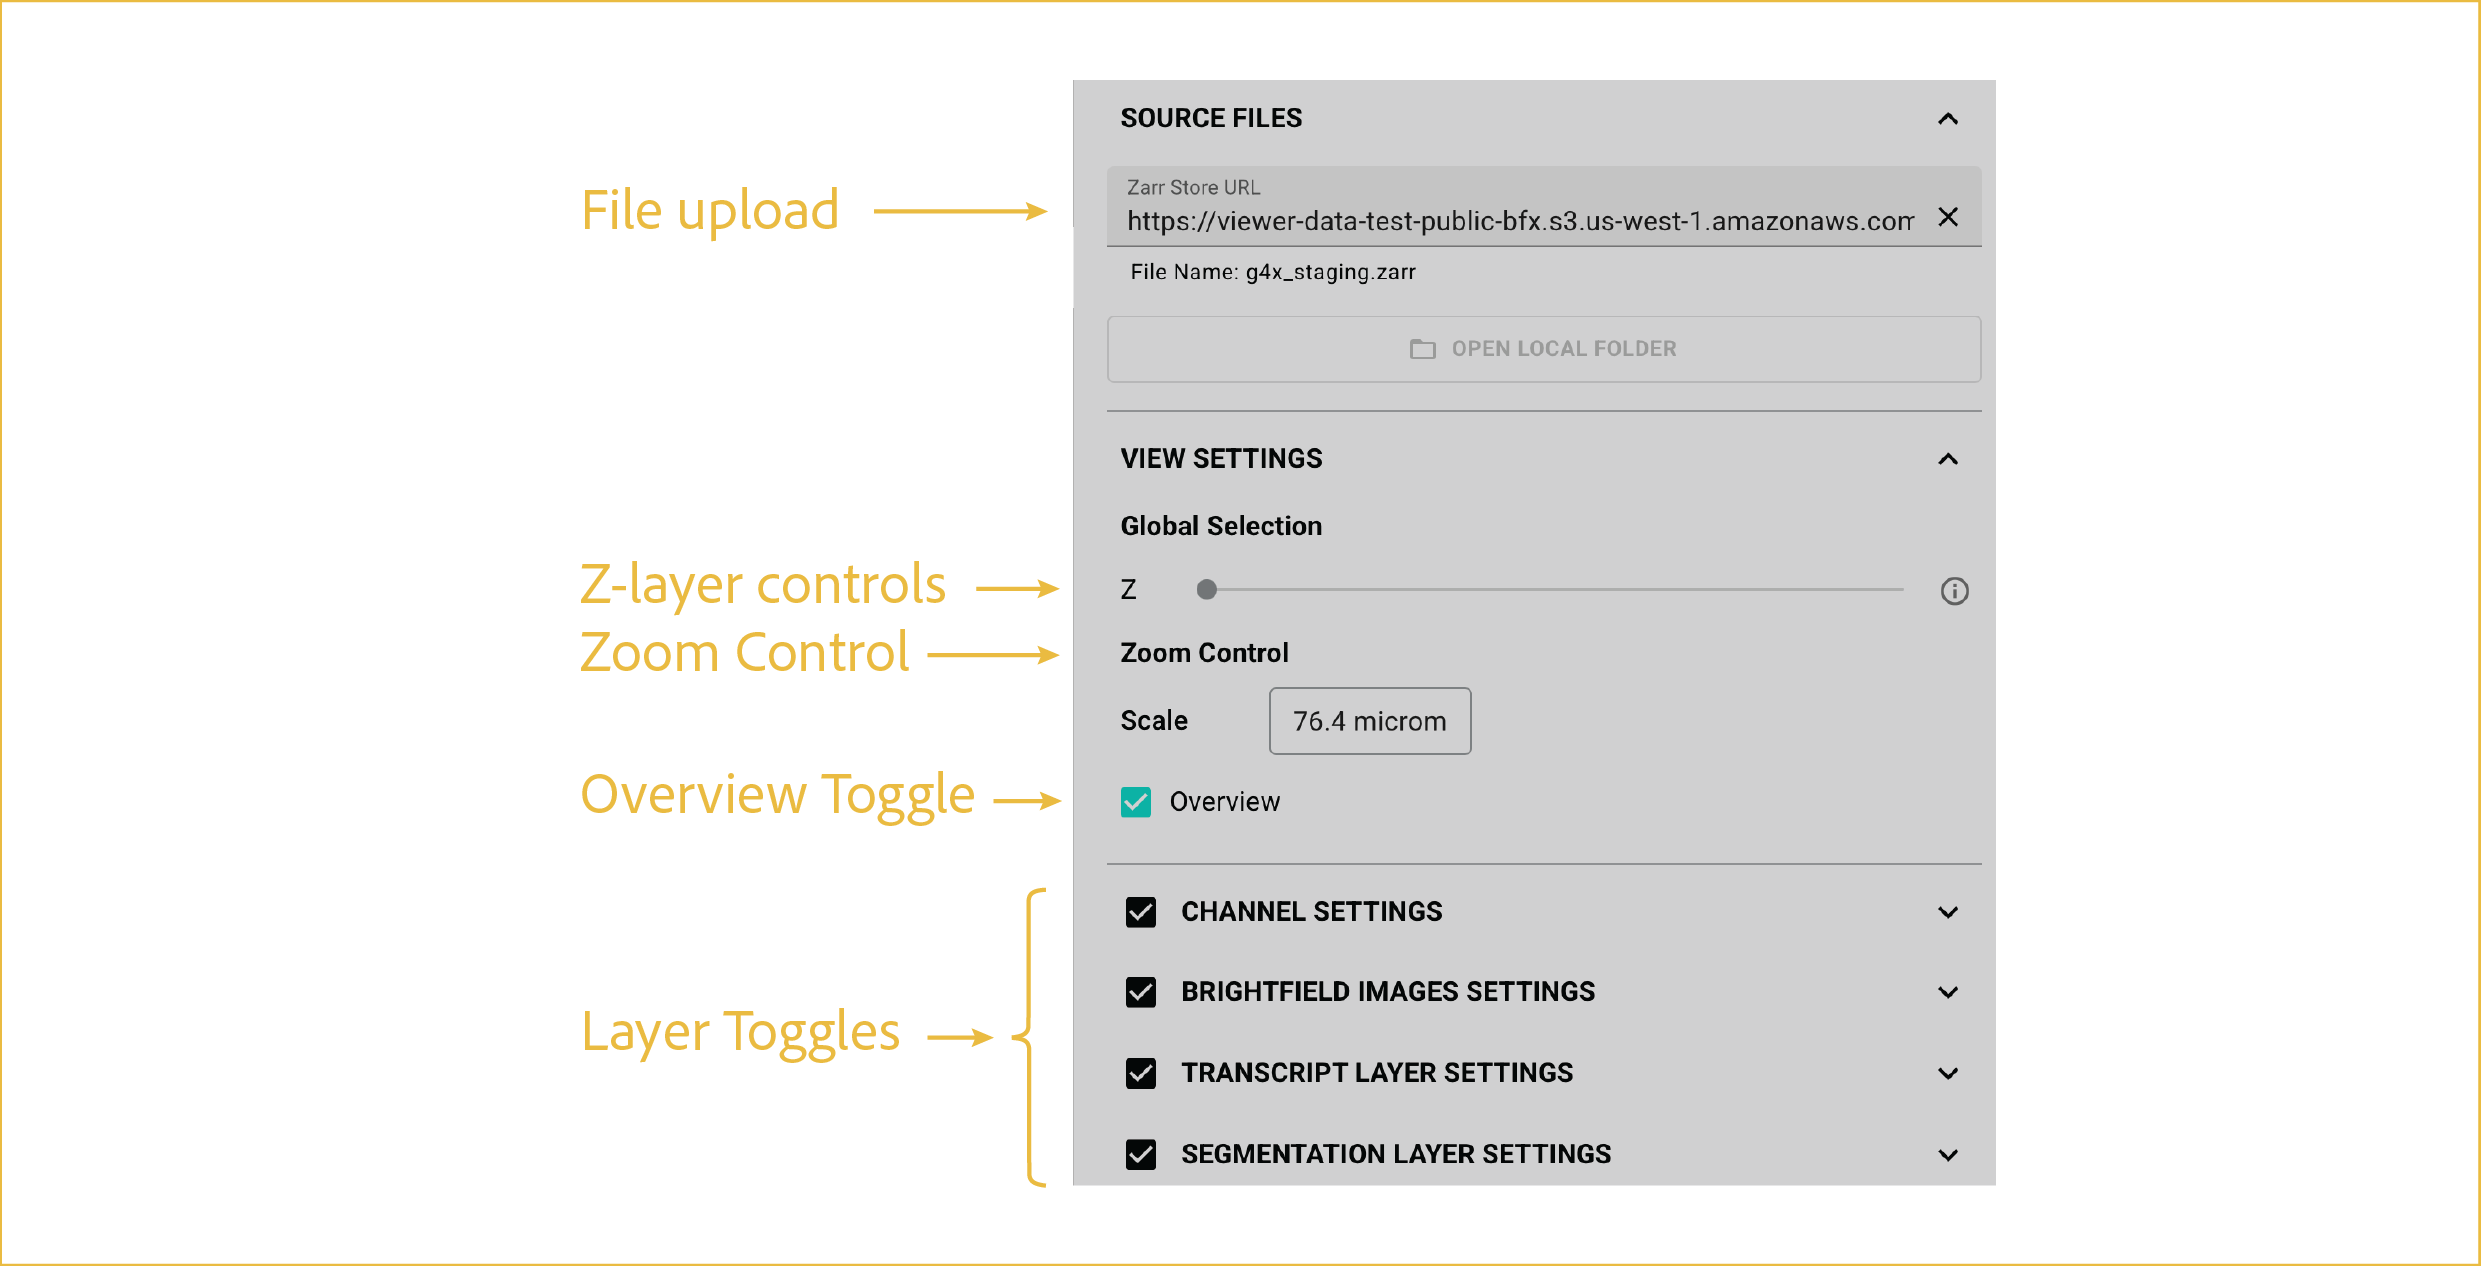
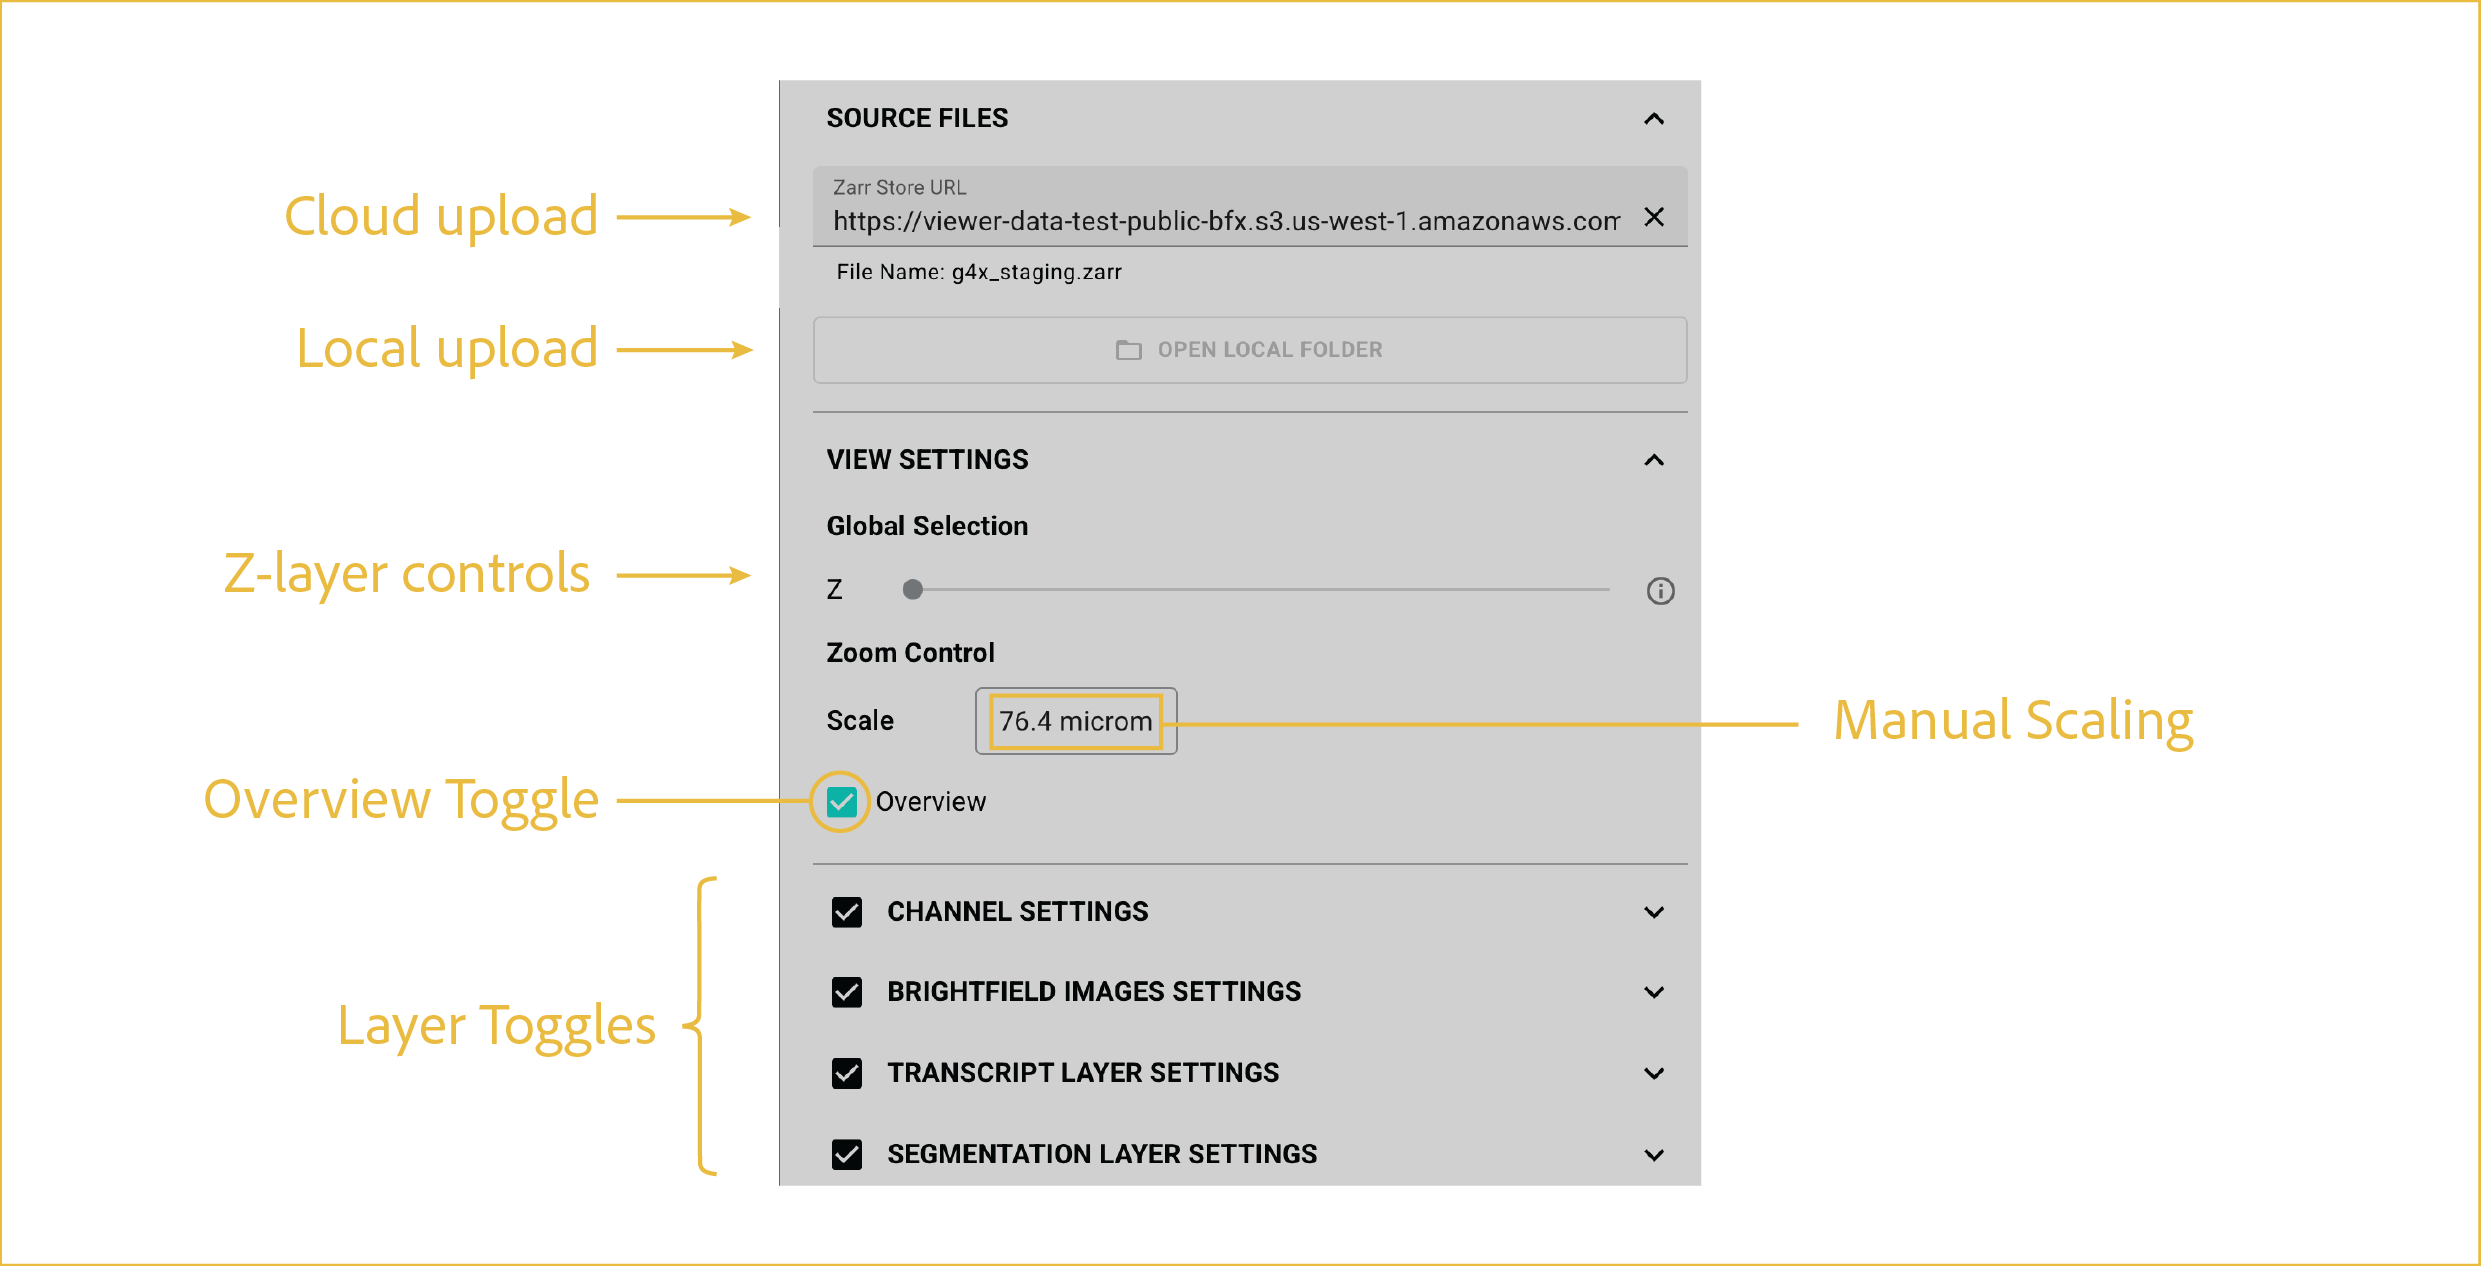
Added first versions of all usage images. Minor name changes.

Changed region(s): [[0.0621, 0.0616, 0.9, 0.955], [0.1241, 0.2464, 0.2483, 0.3081]]

diff --git a/docs/usage/flow_cytometry.md b/docs/usage/flow_cytometry.md
@@ -1,0 +1,71 @@
+# flow cytometry filter
+---
+
+<br>
+This section focuses on uploading your data and toggling which layers you want visible at any given time.
+
+## reference image
+
+
+![G4X Viewer](../images/flow_controls.png)
+
+<br>
+
+<div class="viewer-card viewer-pink">
+
+This section explains how to use the flow cytometry filter controls to change which cells are displayed based on a subpopulation of the flow cytometry embedding that you select. This will appear as a resizable pop-up window with independent interactions that can be applied back to your loaded image.
+
+<ol class="viewer-feature-list">
+  <li><strong>Protein Channel Selection</strong>
+  Here, you can choose any two proteins for which you want to compare cells-level intensity. The values used are mean intensity across all pixels in a cell. You cannot select the same protein quantification for both axes.
+  <br></li>
+  
+  <li><strong>Plot Settings</strong>
+  This menu is accessible by clicking the gear icon in the top right of the pane. Here, you can change many settings related to the way the plot looks. This includes graph type, colorscale, number of bins, subsampling, point size, logarithmic scaling, and more. Lastly, you can manually change the color scaling using the sliders along the bottom of the pane so that cells above or below a certain value will not be displayed on the plot.
+  <br></li>
+  
+  <li><strong>Plot Interaction Menu</strong>
+  This menu enables you to interact with the plot through a variety of functions including downloading the plot, zooming in/out (including on a specified area), panning across the image, selecting an ROI, and resetting axes. These are all standard plotly interactions.
+  <br>
+  <br>
+  Of particular note for the filtering we apply is the "Box Select," highlighted in the reference image. We will use this to filter for a subpopulation of cells.
+  <br></li>
+
+  <li><strong>Select ROI</strong>
+  Once you have clicked on the "Box Select" tool, you can navigate to location in the image that you want and draw a box around the cells you would like to filter for. Once drawn, the box will stay in place until you draw another or clear the filter.  On the bottom it will also display the X/Y limits of your selected area.
+  <br></li>
+
+  <li><strong>Apply/Clear Filter</strong>
+  Once you're happy with your ROI selection, you can then click "APPLY" to make your selection display on the original G4X Viewer window. This will persist until you reopen the UMAP filter tool and select "CLEAR." This filter will interact with the other features in the same way as any other segmentation filter.
+  <br></li>
+
+</ol>
+
+</div>
+
+## on-screen features {: .viewer-section .viewer-gray }
+
+<div class="viewer-card viewer-gray">
+
+These features are 
+
+<ol class="viewer-feature-list">
+  <li><strong>Screenshot Tool</strong>
+  This tool allows you to take screenshots directly from the viewer and save them to your local device. Screenshots display the current viewing area with all interaction elements removed (includes side panels, buttons). 
+  <br></li>
+  
+  <li><strong>Import/Export Polygons</strong>
+  These buttons allow you to take drawn ROIs and import or export their contents, vertices, and metadata as JSON/CSV files. If you draw ROIs that you like, then click export to download a CSV containing the vertex information
+  Of particular note for the filtering we apply is the "Box Select," highlighted in the reference image. We will use this to filter for a subpopulation of cells.
+  <br></li>
+
+  <li><strong>Draw Polygon (ROI Selection)</strong>
+  This tool enables ROI selection. There is no limit to the number of ROIs that can be drawn. Once the Draw Polygon button has been selected, an expanded menu will appear. To draw an ROI, left click the image area to place a vertex. Each subsequent left click will refine the polygon shape and extent by adding a vertex. The polygon finalizes when you double click the start vertex. Upon closure of the shape, your polygon will be analyzed for cells, transcripts, and protein information stored within it. ROIs can be edited, imported, exported, and used for analysis. More details on these processes can be found below and on the <a href="./dashboard.md">dashboard</a> page. 
+  <br></li>
+
+</ol>
+
+</div>
+!!! tip "Multi-tissue blocks (like-TMA)"
+  
+    The ROI selection feature is particularly useful for samples with multiple independent tissue punches (like TMAs) because it can allow independent export of the transcripts and cell IDS for each individual tissue punch for downstream analysis.

diff --git a/docs/usage/umap.md b/docs/usage/umap.md
@@ -1,0 +1,41 @@
+# UMAP filter
+---
+
+<br>
+This section focuses on uploading your data and toggling which layers you want visible at any given time.
+
+## reference image
+
+
+![G4X Viewer](../images/umap_controls.png)
+
+<br>
+
+<div class="viewer-card viewer-purple">
+
+This section explains how to use the UMAP filter controls to change which cells are displayed based on a subpopulation of the UMAP embedding that you select. This will appear as a resizable pop-up window with independent interactions that can be applied back to your loaded image.
+
+<ol class="viewer-feature-list">
+
+  <li><strong>Plotting Controls</strong>
+  These two elements control how the UMAP embedding visually appears in the pop out window. The first changes the point size by manually inputting a floating point number between 1 and 10 to scale dots by. The subsampling step will decrease the points displayed in the image by a scale factor equal to the number you input, ranging from 2 to 20 with a default of 2.
+  <br></li>
+
+  <li><strong>Plot Interactions</strong>
+  This menu enables you to interact with the plot through a variety of functions including downloading the plot, zooming in/out (including on a specified area), panning across the image, selecting an ROI, and resetting axes. These are all standard plotly interactions.
+  <br>
+  <br>
+  Of particular note for the filtering we apply is the "Box Select," highlighted in the reference image. We will use this to filter for a subpopulation of cells. In order to only select a specific population with more precision, you may also want to try clicking on the colored circles on the legend. A single click will hide/unhide the specific cluster you've chosen and double clicking will turn off all except the cluster you've chosen. 
+  <br></li>
+
+  <li><strong>Select ROI</strong>
+  Once you have clicked on the "Box Select" tool, you can navigate to location in the image that you want and draw a box around the cells you would like to filter for. Once drawn, the box will stay in place until you draw another or clear the filter.  On the bottom it will also display the X/Y limits of your selected area.
+  <br></li>
+
+  <li><strong>Apply/Clear Filter</strong>
+  Once you're happy with your ROI selection, you can then click "APPLY" to make your selection display on the original G4X Viewer window. This will persist until you reopen the UMAP filter tool and select "CLEAR." This filter will interact with the other features in the same way as any other segmentation filter.
+  <br></li>
+
+</ol>
+
+</div>

diff --git a/docs/usage/segmentation.md b/docs/usage/segmentation.md
@@ -1,4 +1,4 @@
-# G4X-viewer segmentation layer
+# segmentation layer
 ---
 
 <br>

diff --git a/docs/usage/transcript.md b/docs/usage/transcript.md
@@ -1,4 +1,4 @@
-# G4X-viewer transcript layer
+# transcript layer
 ---
 
 <br>

diff --git a/docs/usage/protein.md b/docs/usage/protein.md
@@ -1,4 +1,4 @@
-# G4X-viewer protein layer
+# protein layer
 ---
 
 <br>

diff --git a/docs/usage/source_files.md b/docs/usage/source_files.md
@@ -1,4 +1,4 @@
-# G4X-viewer source files
+# source files
 ---
 
 <br>

diff --git a/docs/usage/fhe.md b/docs/usage/fhe.md
@@ -1,4 +1,4 @@
-# G4X-viewer fH&E layer
+# fH&E layer
 ---
 
 <br>
